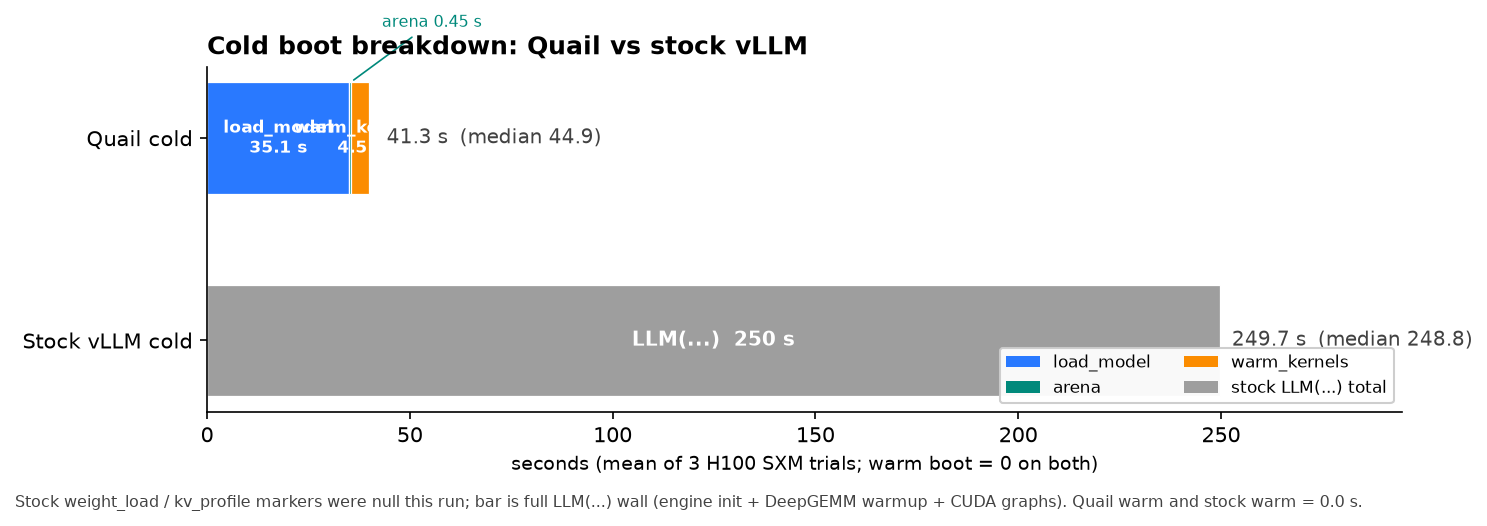
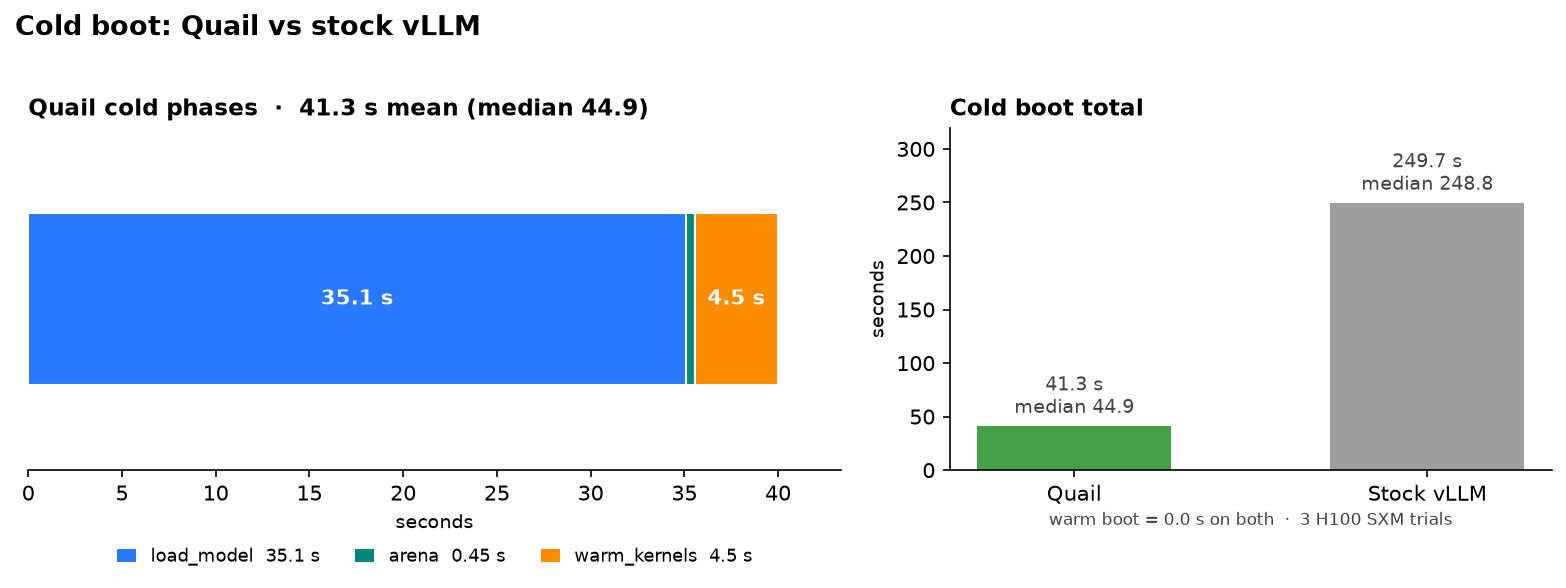
Clean up boot-profile plot: two panels, no overlapping labels
Quail phases on their own scale with a legend; totals compared on
the right. Drop in-bar name labels that collided on tiny segments.

diff --git a/quail/reports/make_boot_plots.py b/quail/reports/make_boot_plots.py
@@ -20,10 +20,10 @@ OUT = Path(__file__).resolve().parent / "plots"
 OUT.mkdir(exist_ok=True)
 
 BLUE = "#2979FF"
-LIGHT = "#90CAF9"
 TEAL = "#00897B"
 ORANGE = "#FB8C00"
 GRAY = "#9E9E9E"
+GREEN = "#43A047"
 DARK = "#424242"
 
 
@@ -37,87 +37,79 @@ q_cold = data["quail"]["cold"]
 s_cold = data["stock"]["cold"]
 
 
-def m(phase_key, side_cold):
-    return side_cold[phase_key]["mean"]
+def mean_s(side, key):
+    return side[key]["mean"]
 
 
-# Stacked cold phases. Stock has no weight/KV split in this run
-# (log markers were null), so it is one bar.
-quail_phases = [
-    ("load_model", m("load_model_s", q_cold), BLUE),
-    ("arena", m("arena_s", q_cold), TEAL),
-    ("pipeline", m("pipeline_s", q_cold), LIGHT),
-    ("warm_kernels", m("warm_kernels_s", q_cold), ORANGE),
+phases = [
+    ("load_model", mean_s(q_cold, "load_model_s"), BLUE),
+    ("arena", mean_s(q_cold, "arena_s"), TEAL),
+    ("warm_kernels", mean_s(q_cold, "warm_kernels_s"), ORANGE),
 ]
-stock_total = m("boot_s", s_cold)
+q_total = mean_s(q_cold, "boot_s")
+s_total = mean_s(s_cold, "boot_s")
 
-fig, ax = plt.subplots(figsize=(10, 3.4), dpi=150)
-y = [1, 0]  # Quail on top, stock below
-height = 0.55
+fig, (ax_q, ax_cmp) = plt.subplots(
+    1, 2, figsize=(10.5, 3.8), dpi=150,
+    gridspec_kw={"width_ratios": [1.35, 1]},
+)
 
-# Quail stacked
+# ---- left: Quail phases on a Quail-scale axis ------------------------
 left = 0.0
-for label, val, color in quail_phases:
+for name, val, color in phases:
     if val <= 0:
         continue
-    ax.barh(y[0], val, left=left, height=height, color=color,
-            edgecolor="white", linewidth=0.6)
-    # label segments wide enough to read
+    ax_q.barh(0, val, left=left, height=0.55, color=color,
+              edgecolor="white", linewidth=1.0)
     if val >= 3.0:
-        ax.text(left + val / 2, y[0], f"{label}\n{val:.1f} s",
-                ha="center", va="center", fontsize=8, color="white",
-                fontweight="bold")
+        ax_q.text(left + val / 2, 0, f"{val:.1f} s",
+                  ha="center", va="center", fontsize=10,
+                  color="white", fontweight="bold")
     left += val
-q_total = m("boot_s", q_cold)
-ax.text(q_total + 3, y[0],
-        f"{q_total:.1f} s  (median {q_cold['boot_s']['median']:.1f})",
-        va="center", fontsize=9.5, color=DARK)
 
-# Stock single bar
-ax.barh(y[1], stock_total, height=height, color=GRAY,
-        edgecolor="white", linewidth=0.6)
-ax.text(stock_total / 2, y[1],
-        f"LLM(...)  {stock_total:.0f} s",
-        ha="center", va="center", fontsize=9.5, color="white",
-        fontweight="bold")
-ax.text(stock_total + 3, y[1],
-        f"{stock_total:.1f} s  (median {s_cold['boot_s']['median']:.1f})",
-        va="center", fontsize=9.5, color=DARK)
+ax_q.set_xlim(0, q_total * 1.05)
+ax_q.set_ylim(-0.55, 0.55)
+ax_q.set_yticks([])
+ax_q.set_xlabel("seconds", fontsize=9)
+ax_q.set_title(f"Quail cold phases  ·  {q_total:.1f} s mean "
+               f"(median {q_cold['boot_s']['median']:.1f})",
+               fontsize=11, fontweight="bold", loc="left")
+ax_q.spines[["top", "right", "left"]].set_visible(False)
 
-ax.set_yticks(y)
-ax.set_yticklabels(["Quail cold", "Stock vLLM cold"], fontsize=10)
-ax.set_xlabel("seconds (mean of 3 H100 SXM trials; warm boot = 0 on both)",
-              fontsize=9)
-ax.set_xlim(0, max(stock_total, q_total) * 1.18)
-ax.set_title("Cold boot breakdown: Quail vs stock vLLM",
-             fontsize=12, fontweight="bold", loc="left")
-ax.spines[["top", "right"]].set_visible(False)
-
-# Tiny arena label outside the stack (too thin to print inside)
-arena = m("arena_s", q_cold)
-if 0 < arena < 3.0:
-    load = m("load_model_s", q_cold)
-    ax.annotate(f"arena {arena:.2f} s",
-                xy=(load + arena / 2, y[0] + height / 2),
-                xytext=(load + 8, y[0] + 0.55),
-                fontsize=7.5, color=TEAL,
-                arrowprops=dict(arrowstyle="-", color=TEAL, lw=0.8))
-
-legend = [
-    Patch(facecolor=BLUE, label="load_model"),
-    Patch(facecolor=TEAL, label="arena"),
-    Patch(facecolor=ORANGE, label="warm_kernels"),
-    Patch(facecolor=GRAY, label="stock LLM(...) total"),
+handles = [
+    Patch(facecolor=c,
+          label=(f"{n}  {v:.2f} s" if v < 1 else f"{n}  {v:.1f} s"))
+    for n, v, c in phases
 ]
-ax.legend(handles=legend, loc="lower right", fontsize=8,
-          framealpha=0.95, ncol=2)
+ax_q.legend(handles=handles, loc="upper center",
+            bbox_to_anchor=(0.5, -0.18), ncol=3, fontsize=8.5,
+            frameon=False, handlelength=1.1)
 
-note = ("Stock weight_load / kv_profile markers were null this run; "
-        "bar is full LLM(...) wall (engine init + DeepGEMM warmup + "
-        "CUDA graphs). Quail warm and stock warm = 0.0 s.")
-fig.text(0.01, -0.02, note, fontsize=7.5, color=DARK, wrap=True)
+# ---- right: total cold comparison ------------------------------------
+labels = ["Quail", "Stock vLLM"]
+vals = [q_total, s_total]
+cols = [GREEN, GRAY]
+bars = ax_cmp.bar(labels, vals, color=cols, width=0.55)
+for b, v, med in zip(bars, vals,
+                     [q_cold["boot_s"]["median"],
+                      s_cold["boot_s"]["median"]]):
+    ax_cmp.text(b.get_x() + b.get_width() / 2, v + s_total * 0.025,
+                f"{v:.1f} s\nmedian {med:.1f}",
+                ha="center", va="bottom", fontsize=9, color=DARK)
+ax_cmp.set_ylim(0, s_total * 1.28)
+ax_cmp.set_ylabel("seconds", fontsize=9)
+ax_cmp.set_title("Cold boot total", fontsize=11,
+                 fontweight="bold", loc="left")
+ax_cmp.spines[["top", "right"]].set_visible(False)
+ax_cmp.text(0.5, -0.16,
+            "warm boot = 0.0 s on both  ·  3 H100 SXM trials",
+            transform=ax_cmp.transAxes, ha="center", fontsize=8,
+            color=DARK)
 
+fig.suptitle("Cold boot: Quail vs stock vLLM", fontsize=13,
+             fontweight="bold", x=0.01, ha="left", y=1.02)
 fig.tight_layout()
+fig.subplots_adjust(bottom=0.22)
 out = OUT / "boot_profile.png"
 fig.savefig(out, bbox_inches="tight")
 print("wrote", out)
